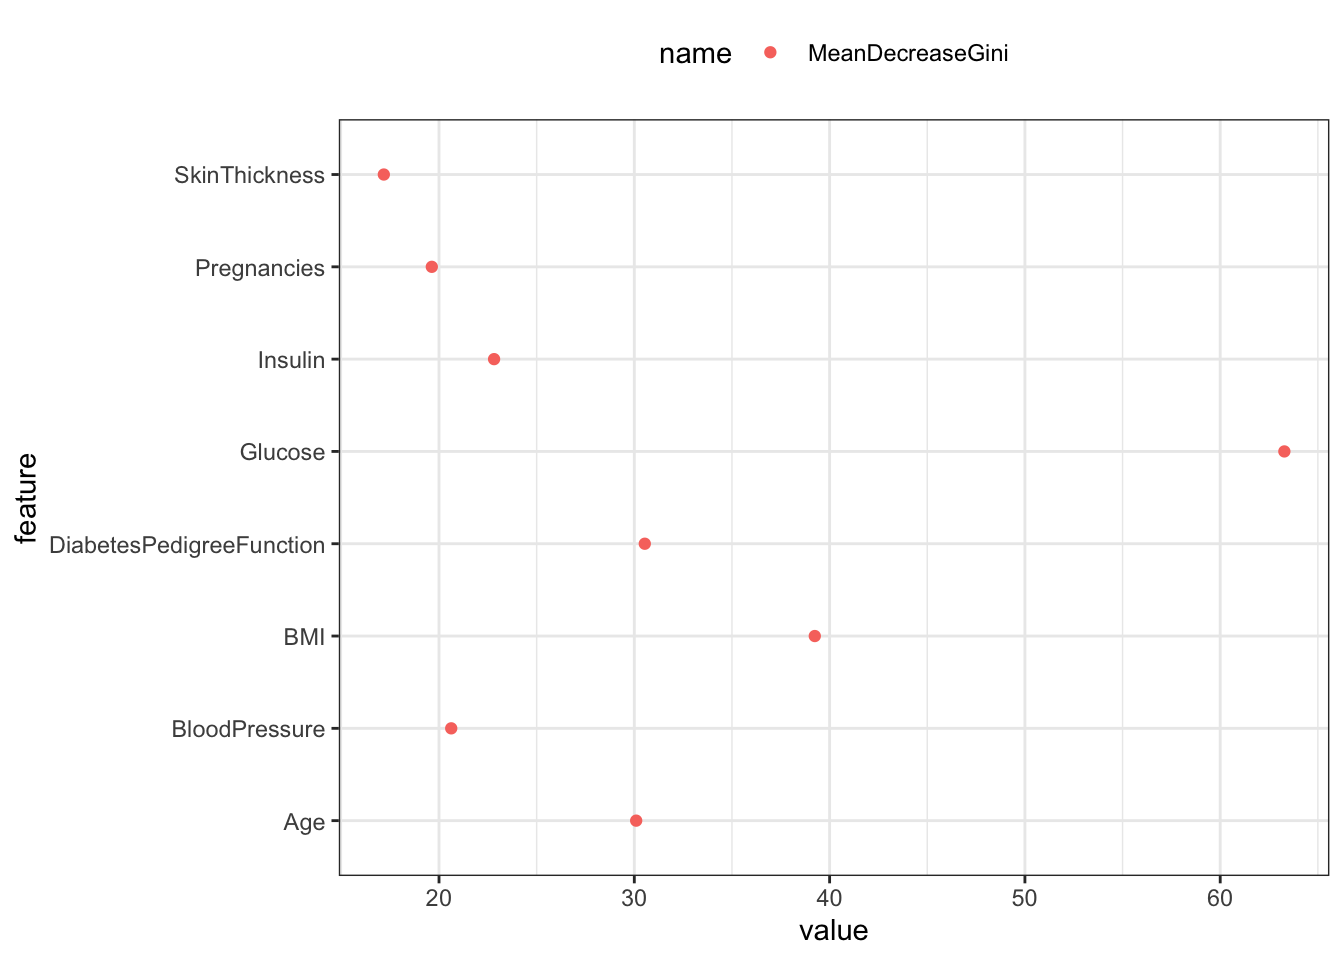
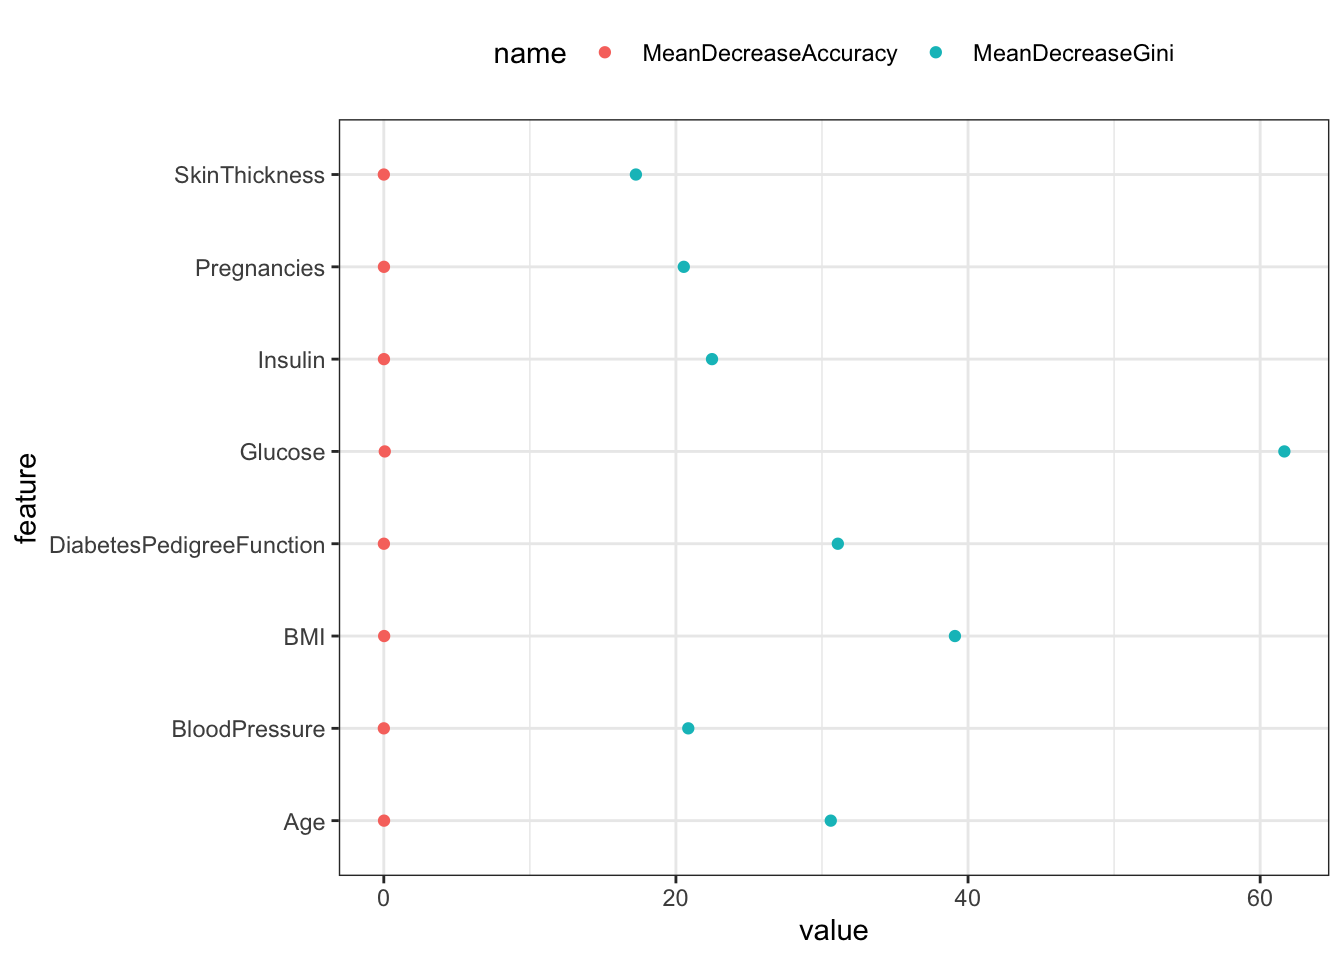
final

diff --git a/docs/results.html b/docs/results.html
@@ -751,14 +751,16 @@ Prediction    Diabetes No Diabetes
 <div class="cell">
 <details class="code-fold">
 <summary>Code</summary>
-<div class="sourceCode cell-code" id="cb26"><pre class="sourceCode r code-with-copy"><code class="sourceCode r"><span id="cb26-1"><a href="#cb26-1" aria-hidden="true" tabindex="-1"></a>df2 <span class="ot">&lt;-</span> <span class="fu">data.frame</span>(rf_model<span class="sc">$</span>importance)</span>
-<span id="cb26-2"><a href="#cb26-2" aria-hidden="true" tabindex="-1"></a>df2 <span class="sc">|&gt;</span> </span>
-<span id="cb26-3"><a href="#cb26-3" aria-hidden="true" tabindex="-1"></a>  <span class="fu">rownames_to_column</span>(<span class="st">'feature'</span>) <span class="sc">|&gt;</span> </span>
-<span id="cb26-4"><a href="#cb26-4" aria-hidden="true" tabindex="-1"></a>  <span class="fu">pivot_longer</span>(<span class="at">cols =</span> <span class="fu">starts_with</span>(<span class="st">'Mean'</span>)) <span class="sc">|&gt;</span> </span>
-<span id="cb26-5"><a href="#cb26-5" aria-hidden="true" tabindex="-1"></a>  <span class="fu">ggplot</span>(<span class="fu">aes</span>(<span class="at">x =</span> value, <span class="at">y =</span> feature, <span class="at">color =</span> name)) <span class="sc">+</span></span>
-<span id="cb26-6"><a href="#cb26-6" aria-hidden="true" tabindex="-1"></a>  <span class="fu">geom_point</span>() <span class="sc">+</span></span>
-<span id="cb26-7"><a href="#cb26-7" aria-hidden="true" tabindex="-1"></a>  <span class="fu">theme_bw</span>() <span class="sc">+</span></span>
-<span id="cb26-8"><a href="#cb26-8" aria-hidden="true" tabindex="-1"></a>  <span class="fu">theme</span>(<span class="at">legend.position =</span> <span class="st">'top'</span>)</span></code><button title="Copy to Clipboard" class="code-copy-button"><i class="bi"></i></button></pre></div>
+<div class="sourceCode cell-code" id="cb26"><pre class="sourceCode r code-with-copy"><code class="sourceCode r"><span id="cb26-1"><a href="#cb26-1" aria-hidden="true" tabindex="-1"></a><span class="fu">set.seed</span>(<span class="dv">5293</span>)</span>
+<span id="cb26-2"><a href="#cb26-2" aria-hidden="true" tabindex="-1"></a>rf_model <span class="ot">&lt;-</span> <span class="fu">randomForest</span>(Outcome <span class="sc">~</span> ., <span class="at">data =</span> train_data, <span class="at">importance =</span> <span class="cn">TRUE</span>)</span>
+<span id="cb26-3"><a href="#cb26-3" aria-hidden="true" tabindex="-1"></a>df2 <span class="ot">&lt;-</span> <span class="fu">data.frame</span>(rf_model<span class="sc">$</span>importance)</span>
+<span id="cb26-4"><a href="#cb26-4" aria-hidden="true" tabindex="-1"></a>df2 <span class="sc">|&gt;</span> </span>
+<span id="cb26-5"><a href="#cb26-5" aria-hidden="true" tabindex="-1"></a>  <span class="fu">rownames_to_column</span>(<span class="st">'feature'</span>) <span class="sc">|&gt;</span> </span>
+<span id="cb26-6"><a href="#cb26-6" aria-hidden="true" tabindex="-1"></a>  <span class="fu">pivot_longer</span>(<span class="at">cols =</span> <span class="fu">starts_with</span>(<span class="st">'Mean'</span>)) <span class="sc">|&gt;</span> </span>
+<span id="cb26-7"><a href="#cb26-7" aria-hidden="true" tabindex="-1"></a>  <span class="fu">ggplot</span>(<span class="fu">aes</span>(<span class="at">x =</span> value, <span class="at">y =</span> feature, <span class="at">color =</span> name)) <span class="sc">+</span></span>
+<span id="cb26-8"><a href="#cb26-8" aria-hidden="true" tabindex="-1"></a>  <span class="fu">geom_point</span>() <span class="sc">+</span></span>
+<span id="cb26-9"><a href="#cb26-9" aria-hidden="true" tabindex="-1"></a>  <span class="fu">theme_bw</span>() <span class="sc">+</span></span>
+<span id="cb26-10"><a href="#cb26-10" aria-hidden="true" tabindex="-1"></a>  <span class="fu">theme</span>(<span class="at">legend.position =</span> <span class="st">'top'</span>)</span></code><button title="Copy to Clipboard" class="code-copy-button"><i class="bi"></i></button></pre></div>
 </details>
 <div class="cell-output-display">
 <div>
